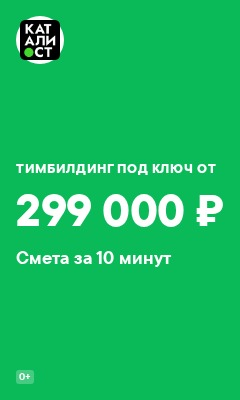
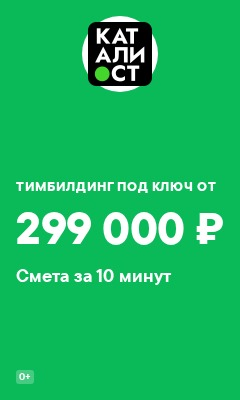
Баннер на поиске: S9 убран, S8 с крупным логотипом по центру

Changed region(s): [[0.0583, 0.39, 0.9333, 0.72], [0.3208, 0.03, 0.6708, 0.24], [0.0583, 0.03, 0.2917, 0.18]]

diff --git a/reklama-sadzhest-2026-11-25/index.html b/reklama-sadzhest-2026-11-25/index.html
@@ -11,7 +11,7 @@ figcaption{font-size:13px;color:#555;margin-top:4px}
 .q{padding:12px 16px;border-bottom:1px solid #eee;font-size:18px}.q span{color:#0aba59}.row{display:flex;gap:12px;align-items:flex-start;padding:12px 16px;background:#fafafa;border-bottom:1px solid #eee}
 .row img{margin-top:2px}.dm{color:#0a7a3b;font-size:14px}.rk{color:#888;font-size:13px;margin-left:6px}.li{padding:9px 16px;color:#333}
 </style></head><body><header><h1>Подсказки поиска и баннер на поиске: варианты на выбор</h1><nav><a href="#v2">Варианты 2</a><a href="#itog">Коротко</a><a href="#s">Баннеры S1-S5</a><a href="#p">Подсказки P1-P5</a><a href="#src">Источники</a></nav></header><main>
-<section id="v2"><h2><span>Варианты 2: S6-S10, заметно разные</span></h2><p class="lead">Ты написала, что S1 и S4 одинаковые. S4 остановлен. Ниже пять баннеров, которые отличаются с первого взгляда: другая программа, другое фото, другой стиль, другой оффер. S1 остаётся контролем. Все в формате 240×400, как стоят справа от выдачи.</p><article><h3>S6</h3><div class="g"><figure><a href="img/S6-240x400.jpg" target="_blank"><img loading="lazy" src="img/S6-240x400.jpg" width="240" height="400" alt="S6 240x400"></a><figcaption>240x400 · 38.7 КБ</figcaption></figure><div class="side"><p class="diff"><b>Чем отличается от S1:</b> Другая программа (Формула-1, гонки), фото на весь баннер с тёмным низом и белым текстом, оффер: «Соберите болид командой», от 50 до 300 человек. S1 это светлая карточка с ночной башней.</p><p class="pr">программа: Формула-1 · стиль: фото на весь баннер · оффер: программа и размер группы</p></div></div></article><article><h3>S7</h3><div class="g"><figure><a href="img/S7-240x400.jpg" target="_blank"><img loading="lazy" src="img/S7-240x400.jpg" width="240" height="400" alt="S7 240x400"></a><figcaption>240x400 · 32.1 КБ</figcaption></figure><div class="side"><p class="diff"><b>Чем отличается от S1:</b> Другая программа (бизнес-игра «Стартап с нейросетями»), люди крупно в кадре вместо ночной башни, светлый со смайликом, формула «Запустите командой».</p><p class="pr">программа: Стартап с нейросетями · стиль: светлый со смайликом, люди в кадре · оффер: игра с нейросетями</p></div></div></article><article><h3>S8</h3><div class="g"><figure><a href="img/S8-240x400.jpg" target="_blank"><img loading="lazy" src="img/S8-240x400.jpg" width="240" height="400" alt="S8 240x400"></a><figcaption>240x400 · 12.3 КБ</figcaption></figure><div class="side"><p class="diff"><b>Чем отличается от S1:</b> Нет фото: на зелёном фоне крупно цена «299 000 ₽» и «Смета за 10 минут». Оффер: цена, а не программа.</p><p class="pr">программа: без фото (цена) · стиль: однотонный зелёный, крупная цена · оффер: цена и скорость сметы</p></div></div></article><article><h3>S9</h3><div class="g"><figure><a href="img/S9-240x400.jpg" target="_blank"><img loading="lazy" src="img/S9-240x400.jpg" width="240" height="400" alt="S9 240x400"></a><figcaption>240x400 · 12.5 КБ</figcaption></figure><div class="side"><p class="diff"><b>Чем отличается от S1:</b> Нет фото: на чёрном фоне огромная цифра «5 000» и «проектов, 16 наград». Оффер: доверие, а не цена. Не копия S4: там была та же цифра мелко под башней.</p><p class="pr">программа: без фото (цифра) · стиль: однотонный чёрный, крупная цифра · оффер: доверие: опыт и награды</p></div></div></article><article><h3>S10</h3><div class="g"><figure><a href="img/S10-240x400.jpg" target="_blank"><img loading="lazy" src="img/S10-240x400.jpg" width="240" height="400" alt="S10 240x400"></a><figcaption>240x400 · 35.4 КБ</figcaption></figure><div class="side"><p class="diff"><b>Чем отличается от S1:</b> Сезонный оффер: новогодний тимбилдинг, фото праздничной программы, гирлянда и колпак на смайлике. Единственный новогодний в наборе.</p><p class="pr">программа: Новогодний тимбилдинг · стиль: светлый со смайликом, гирлянда · оффер: сезон: Новый год</p></div></div></article></section>
+<section id="v2"><h2><span>Варианты 2: S6, S7, S8, S10, заметно разные</span></h2><p class="lead">Ты написала, что S1 и S4 одинаковые. S4 остановлен. Ниже четыре баннера, которые отличаются с первого взгляда: другая программа, другое фото, другой стиль, другой оффер. S1 остаётся контролем. Все в формате 240×400, как стоят справа от выдачи.</p><article><h3>S6</h3><div class="g"><figure><a href="img/S6-240x400.jpg" target="_blank"><img loading="lazy" src="img/S6-240x400.jpg" width="240" height="400" alt="S6 240x400"></a><figcaption>240x400 · 38.7 КБ</figcaption></figure><div class="side"><p class="diff"><b>Чем отличается от S1:</b> Другая программа (Формула-1, гонки), фото на весь баннер с тёмным низом и белым текстом, оффер: «Соберите болид командой», от 50 до 300 человек. S1 это светлая карточка с ночной башней.</p><p class="pr">программа: Формула-1 · стиль: фото на весь баннер · оффер: программа и размер группы</p></div></div></article><article><h3>S7</h3><div class="g"><figure><a href="img/S7-240x400.jpg" target="_blank"><img loading="lazy" src="img/S7-240x400.jpg" width="240" height="400" alt="S7 240x400"></a><figcaption>240x400 · 32.1 КБ</figcaption></figure><div class="side"><p class="diff"><b>Чем отличается от S1:</b> Другая программа (бизнес-игра «Стартап с нейросетями»), люди крупно в кадре вместо ночной башни, светлый со смайликом, формула «Запустите командой».</p><p class="pr">программа: Стартап с нейросетями · стиль: светлый со смайликом, люди в кадре · оффер: игра с нейросетями</p></div></div></article><article><h3>S8</h3><div class="g"><figure><a href="img/S8-240x400.jpg" target="_blank"><img loading="lazy" src="img/S8-240x400.jpg" width="240" height="400" alt="S8 240x400"></a><figcaption>240x400 · 14.3 КБ</figcaption></figure><div class="side"><p class="diff"><b>Чем отличается от S1:</b> Нет фото: на зелёном фоне крупно цена «299 000 ₽» и «Смета за 10 минут». Оффер: цена, а не программа. Логотип крупнее и по центру (правка 25.11).</p><p class="pr">программа: без фото (цена) · стиль: однотонный зелёный, крупная цена · оффер: цена и скорость сметы</p></div></div></article><article><h3>S10</h3><div class="g"><figure><a href="img/S10-240x400.jpg" target="_blank"><img loading="lazy" src="img/S10-240x400.jpg" width="240" height="400" alt="S10 240x400"></a><figcaption>240x400 · 35.4 КБ</figcaption></figure><div class="side"><p class="diff"><b>Чем отличается от S1:</b> Сезонный оффер: новогодний тимбилдинг, фото праздничной программы, гирлянда и колпак на смайлике. Единственный новогодний в наборе.</p><p class="pr">программа: Новогодний тимбилдинг · стиль: светлый со смайликом, гирлянда · оффер: сезон: Новый год</p></div></div></article></section>
 <section id="itog"><h2><span>Коротко</span></h2><div class="box">
 <p><b>Подсказки.</b> Отдельного типа кампании нет. В подсказку попадает обычное поисковое объявление с первого места, если оно очень подходит к запросу. Яндекс сам выбирает, когда его показать. Чтобы чаще попадать, ставят повышающую корректировку «Подсказки» к ставке.</p>
 <p><b>Факт по нашему кабинету.</b> Старый кабинет с 1 октября по 24 ноября: 69 показов в подсказках, 1 клик, 384 ₽. Это 0,25% всех показов на поиске, около 9 показов в неделю. Новые кампании с 24 ноября в подсказках ещё не показывались.</p>
